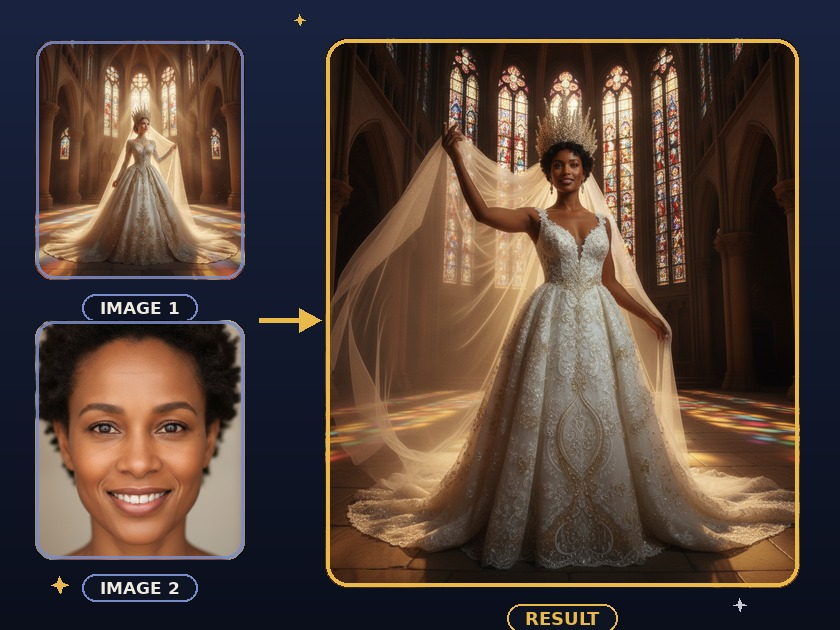
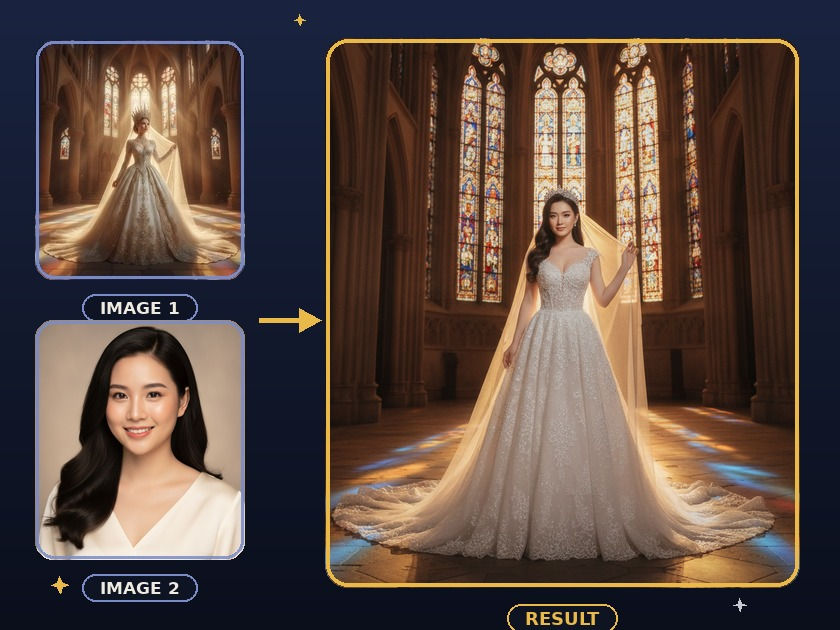
v4.20.21: redo Subject/Face card face-reference with a Vietnamese model
IMAGE 2 and RESULT panels of subject-face.jpg now show a beautiful
Vietnamese woman as the face reference, blended into the same
cathedral wedding scene from IMAGE 1.

diff --git a/docs/app/sw.js b/docs/app/sw.js
@@ -1,6 +1,6 @@
 /* HNK Web Studio service worker — cache-first for library assets,
    network-first for everything else (so app updates arrive immediately). */
-var CACHE = "hnk-web-studio-v4-20-20";
+var CACHE = "hnk-web-studio-v4-20-21";
 var OFFLINE_URL = "./index.html";
 
 self.addEventListener("install", function (e) {

diff --git a/docs/app/index.html b/docs/app/index.html
@@ -3941,7 +3941,7 @@ if ("serviceWorker" in navigator) {
 }
 
 /* version check: tell cached users when a new build ships */
-var APP_VER="4.20.20";
+var APP_VER="4.20.21";
 (function(){
   var vv="v"+APP_VER;
   var nv=document.getElementById("navVer"); if(nv) nv.textContent=vv;
